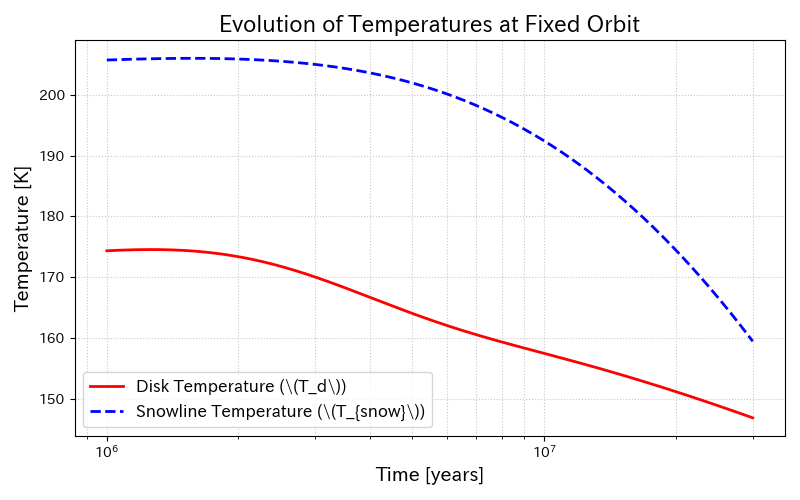
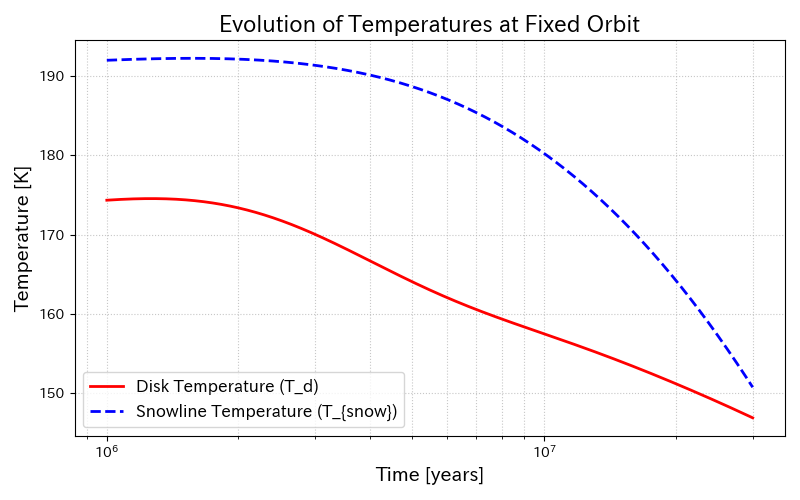
スノーラインの温度変化に対して間違っていた箇所の修正

diff --git a/gallilean_central_flax.py b/gallilean_central_flax.py
@@ -606,7 +606,7 @@ while t_year <= t_max_year:
     # 動的スノーラインの計算 (Shibaike et al. 2019 に準拠したモル分率)
     X_H2O = 1.7e-4
     P_H2O_cgs = max(X_H2O * P_gas_cgs, 1e-20)
-    T_snow_val = 6141.0 / (31.4 - np.log(P_H2O_cgs))
+    T_snow_val = 6070.0 / (30.86 - np.log(P_H2O_cgs))
 
     fixed_history_t.append(t_year)
     fixed_history_Td.append(Td_fixed)
@@ -1150,8 +1150,8 @@ plt.close()
 # ---固定軌道でのスノーラインの変化---
 plt.figure(figsize=(8, 5))
 
-plt.plot(fixed_history_t, fixed_history_Td, label=r"Disk Temperature (\(T_d\))", color="red", linewidth=2)
-plt.plot(fixed_history_t, fixed_history_T_snow, label=r"Snowline Temperature (\(T_{snow}\))", color="blue", linestyle="--", linewidth=2)
+plt.plot(fixed_history_t, fixed_history_Td, label=r"Disk Temperature (T_d)", color="red", linewidth=2)
+plt.plot(fixed_history_t, fixed_history_T_snow, label=r"Snowline Temperature (T_{snow})", color="blue", linestyle="--", linewidth=2)
 
 plt.xlabel("Time [years]", fontsize=14)
 plt.ylabel("Temperature [K]", fontsize=14)
